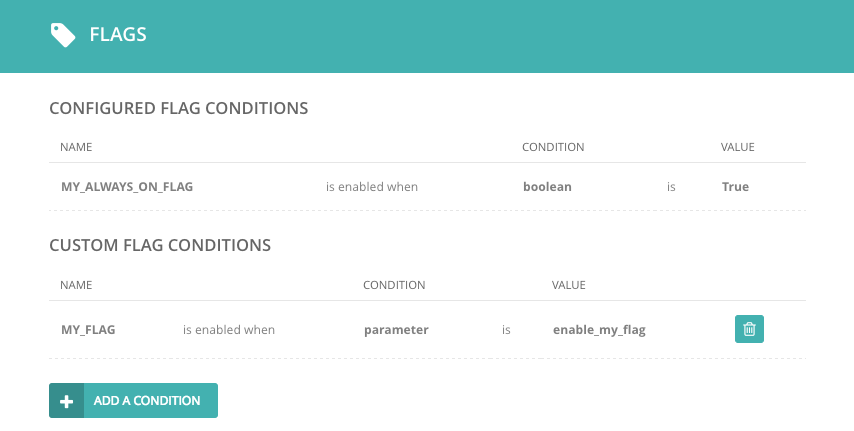
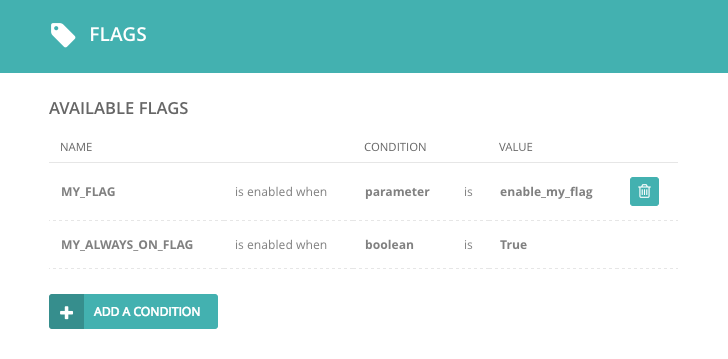
Group all flag conditions together in admin

diff --git a/flags/templates/flagadmin/index.html b/flags/templates/flagadmin/index.html
@@ -13,7 +13,7 @@
         {% if flags|length == 0 %}
         <p>No flags have been defined.</p>
         {% else %}
-        <h2>Configured Flag Conditions</h2>
+        <h2>Available Flags</h2>
 
         <table class="listing">
             <thead>
@@ -27,11 +27,13 @@
             </thead>
             <tbody>
               {% for flag in flags.values %}
-                  {% for condition, fn, value in flag.configured_conditions %}
+                  {% for condition, fn, value, state in flag.conditions %}
                   <tr>
-                      <td>
+                      {% if forloop.first %}
+                      <td rowspan="{{ flag.conditions|length }}">
                         <b>{{ flag.name }}</b>
                       </td>
+                      {% endif %}
                       <td>is enabled when</td>
                       <td>
                         <b>{{ condition }}</b>
@@ -40,13 +42,22 @@
                       <td>
                         <b>{{ value }}</b>
                       </td>
+                      <td>
+                        {% if state %}
+                        <a  href="{% url 'flagadmin:delete' state.pk %}" class="button icon text-replace hover-no icon-bin">Delete</a>
+                        {% endif %}
+                      </td>
                   </tr>
                   {% endfor %}
               {% endfor %}
             </tbody>
         </table>
 
-        <h2>Custom Flag Conditions</h2>
+        <a href="{% url 'flagadmin:create' %}" class="button bicolor icon icon-plus">Add a condition</a>
+
+
+        <h2>Unconfigured flags</h2>
+        <p>Conditions exist for these flags but they are not configured.</p>
 
         <table class="listing">
             <thead>
@@ -61,12 +72,11 @@
             </thead>
             <tbody>
                 {% for state in flag_states %}
+                {% if state.name not in flags.keys %}
                 <tr>
                     <td>
                       <b>{{ state.name }}</b>
-                      {% if state.name not in flags.keys %}
                       <span title="flag not configured" style="color: #e9b04d; font-family: wagtail;">!</span>
-                      {% endif %}
                     </td>
                       <td>is enabled when</td>
                     <td>
@@ -80,11 +90,11 @@
                       <a  href="{% url 'flagadmin:delete' state.pk %}" class="button icon text-replace hover-no icon-bin">Delete</a>
                     </td>
                 </tr>
+                {% endif %}
                 {% endfor %}
             </tbody>
         </table>
 
-        <a href="{% url 'flagadmin:create' %}" class="button bicolor icon icon-plus">Add a condition</a>
 
         {% endif %}
     </div>

diff --git a/flags/settings.py b/flags/settings.py
@@ -33,7 +33,7 @@ class Flag:
     def configured_conditions(self):
         """ Get all flag conditions configured in settings """
         # Get condition callables for our settings-configured conditions
-        condition_fns = [(c, fn, v)
+        condition_fns = [(c, fn, v, None)
                          for c, v in self.__conditions.items()
                          for fn in get_condition(c)]
         return condition_fns
@@ -43,7 +43,7 @@ class Flag:
         """ Get dynamic flag conditions from models.FlagState """
         # Get condition callables for our dynamic-configured conditions
         FlagState = apps.get_model('flags', 'FlagState')
-        condition_fns = [(s.condition, fn, s.value)
+        condition_fns = [(s.condition, fn, s.value, s)
                          for s in FlagState.objects.filter(name=self.name)
                          for fn in get_condition(s.condition)]
         return condition_fns
@@ -56,7 +56,7 @@ class Flag:
     def check_state(self, **kwargs):
         """ Determine this flag's state based on its conditions """
         condition_fns = self.conditions
-        return all(fn(v, **kwargs) for c, fn, v in condition_fns)
+        return all(fn(v, **kwargs) for c, fn, v, o in condition_fns)
 
 
 def add_flags_from_sources(sources=None):
